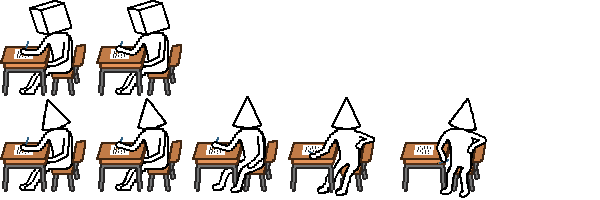
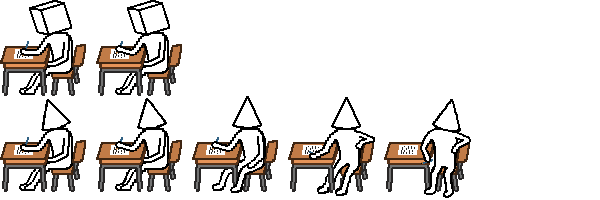
player sprite follows the mouse.

Changed region(s): [[0.63, 0.48, 0.81, 0.99]]

diff --git a/Cheat your way through/Cheat your way through/Game.cpp b/Cheat your way through/Cheat your way through/Game.cpp
@@ -17,6 +17,7 @@
 /// load and setup thne image
 /// </summary>
 Game::Game() :
+	
 	m_window{ sf::VideoMode{ 1200U, 900U, 32U }, "SFML Game" },
 	m_exitGame{false} //when true game will exit
 {
@@ -99,6 +100,7 @@ void Game::processKeys(sf::Event t_event)
 /// <param name="t_deltaTime">time interval per frame</param>
 void Game::update(sf::Time t_deltaTime)
 {
+	turnToMouse(PLAYER_RECT_X, PLAYER_RECT_Y, PLAYER_WIDTH, PLAYER_HEIGHT);
 	if (m_exitGame)
 	{
 		m_window.close();
@@ -111,10 +113,13 @@ void Game::update(sf::Time t_deltaTime)
 void Game::render()
 {
 	m_window.clear(sf::Color{200, 173, 123});
-	m_window.draw(m_welcomeMessage);
 	m_window.draw(m_teacherSprite);
 	m_window.draw(m_blockheadSprite);
 	m_window.draw(m_playerSprite);
+	m_window.draw(m_progressBarSprite);
+	m_window.draw(m_clockSprite);
+	m_window.draw(m_clock);
+	m_window.draw(m_bellSprite);
 	m_window.display();
 }
 
@@ -127,12 +132,12 @@ void Game::setupFontAndText()
 	{
 		std::cout << "problem loading digital font" << std::endl;
 	}
-	m_welcomeMessage.setFont(m_clockFont);
-	m_welcomeMessage.setString("5:00");
-	m_welcomeMessage.setStyle(sf::Text::Bold);
-	m_welcomeMessage.setPosition(825, 125);
-	m_welcomeMessage.setCharacterSize(50U);
-	m_welcomeMessage.setFillColor(sf::Color::Red);
+	m_clock.setFont(m_clockFont);
+	m_clock.setString("5:00");
+	m_clock.setStyle(sf::Text::Bold);
+	m_clock.setPosition(825, 125);
+	m_clock.setCharacterSize(50U);
+	m_clock.setFillColor(sf::Color::Red);
 
 }
 
@@ -144,7 +149,7 @@ void Game::setupSprite()
 	if (!m_teacherTexture.loadFromFile("ASSETS\\IMAGES\\Teacher-sprites-Final.png"))
 	{
 		// simple error message if previous call fails
-		std::cout << "problem loading logo" << std::endl;
+		std::cout << "problem loading teacher" << std::endl;
 	}
 	m_teacherSprite.setTexture(m_teacherTexture);
 	m_teacherSprite.setPosition(250, 440);
@@ -155,7 +160,7 @@ void Game::setupSprite()
 	if (!m_studentTexture.loadFromFile("ASSETS\\IMAGES\\students.png"))
 	{
 		// simple error message if previous call fails
-		std::cout << "problem loading logo" << std::endl;
+		std::cout << "problem loading students" << std::endl;
 	}
 	m_blockheadSprite.setTexture(m_studentTexture);
 	m_blockheadSprite.setPosition(800, 500);
@@ -168,4 +173,66 @@ void Game::setupSprite()
 	m_playerSprite.setPosition(600, 500);
 	m_playerSprite.setTextureRect(sf::IntRect{ 0,96,96,96 });
 	m_playerSprite.setScale(2, 2);
+
+	//HUD sprites
+	if (!m_HUDTexture.loadFromFile("ASSETS\\IMAGES\\HUD.png"))
+	{
+		// simple error message if previous call fails
+		std::cout << "problem loading HUD" << std::endl;
+	}
+
+	//progress bar
+	m_progressBarSprite.setTexture(m_HUDTexture);
+	m_progressBarSprite.setPosition(95, 125);
+	m_progressBarSprite.setTextureRect(sf::IntRect{ 0, 0, 900, 80 });
+	m_progressBarSprite.setScale(0.8, 1);
+
+	//clock background
+	m_clockSprite.setTexture(m_HUDTexture);
+	m_clockSprite.setPosition(810, 120);
+	m_clockSprite.setTextureRect(sf::IntRect{ 0, 80,224 ,80 });
+	m_clockSprite.setScale(0.85, 1);
+	//bell sprite
+	m_bellSprite.setTexture(m_HUDTexture);
+	m_bellSprite.setPosition(1000, 110);
+	m_bellSprite.setTextureRect(sf::IntRect{ 240, 80, 128, 128 });
+}
+
+void Game::animateIdle(int t_height, int t_width)
+{
+	//todo: general animation script for teacher, player and blockhead.
+
+}
+
+
+void Game::turnToMouse(int t_rectX, int t_rectY, int t_width, int t_height)   //animates the player sporite to change depending on mouse position
+{
+	const int
+		LOOKUP_THRESHOLD_Y = 700,
+		MIDDLE_THRESHOLD_X = 1100,
+		MIDDLE_THRESHOLD_Y = 600,
+		COPY_THRESHOLD_X = 1200,
+		COPY_THRESHOLD_Y = 600;
+
+	sf::Vector2f MousePosition = static_cast<sf::Vector2f>(sf::Mouse::getPosition());
+
+	if (MousePosition.y >= COPY_THRESHOLD_Y && MousePosition.x >= COPY_THRESHOLD_X) {   //mousePosition > COPY instead of MousePosition < COPY, setting the sprite once the mouse is in the bottom right section of the screen 
+		m_playerSprite.setTextureRect(sf::IntRect(t_rectX + t_width * 4, t_rectY, t_width, t_height));
+		isSuspicious = true;
+	}
+	else if (MousePosition.x > MIDDLE_THRESHOLD_X) {
+		m_playerSprite.setTextureRect(sf::IntRect(t_rectX + t_width * 3, t_rectY, t_width, t_height));  //sets the sprite to look at middle
+		isSuspicious = true;
+	}
+	else if (MousePosition.y < LOOKUP_THRESHOLD_Y) {
+		m_playerSprite.setTextureRect(sf::IntRect(t_rectX + t_width * 2, t_rectY, t_width, t_height));    //sets the sprite to looking up from desk if mouse is in the right location
+		isSuspicious = false;
+	}
+	else {
+		m_playerSprite.setTextureRect(sf::IntRect(t_rectX, t_rectY, t_width, t_height));  //temporary line until animateIdle is finished.
+		isSuspicious = false;
+		animateIdle(PLAYER_WIDTH, PLAYER_HEIGHT);  //plays the idle animation of player
+		// writeDown();   (affect progress bar)
+
+	}
 }

diff --git a/Cheat your way through/Cheat your way through/Game.h b/Cheat your way through/Cheat your way through/Game.h
@@ -29,20 +29,35 @@ private:
 	
 	void setupFontAndText();
 	void setupSprite();
+	void animateIdle(int t_height, int t_width);
+	void turnToMouse(int t_recX, int t_rectY, int t_width, int t_height);
 
 	sf::RenderWindow m_window; // main SFML window
 	sf::Font m_clockFont; // font used by message
-	sf::Text m_welcomeMessage; // text used for message on screen
+	sf::Text m_clock; // text used for message on screen
 	
 	bool m_exitGame; // control exiting game
-
+	bool isSuspicious = false;
 	sf::Texture
+		m_HUDTexture,
 		m_teacherTexture,
-		m_studentTexture;
+		m_studentTexture; 
+		
 	sf::Sprite
+		m_progressBarSprite,  //part of hud
+		m_bellSprite,   //part of hud
+		m_clockSprite,   //part of hud
 		m_teacherSprite,  //teacher sprites
 		m_blockheadSprite, //student sprites
 		m_playerSprite;  //sprites for player
+	
+	const int    //values of the textureRect for player
+		PLAYER_RECT_X = 0,
+		PLAYER_RECT_Y = 96,
+		PLAYER_WIDTH = 96,
+		PLAYER_HEIGHT = 105;
+
+
 };
 
 #endif // !GAME_HPP

diff --git a/Cheat your way through/Cheat your way through/main.cpp b/Cheat your way through/Cheat your way through/main.cpp
@@ -28,6 +28,7 @@
 /// <returns>success or failure</returns>
 int main()
 {
+	
 	Game game;
 	game.run();
 
